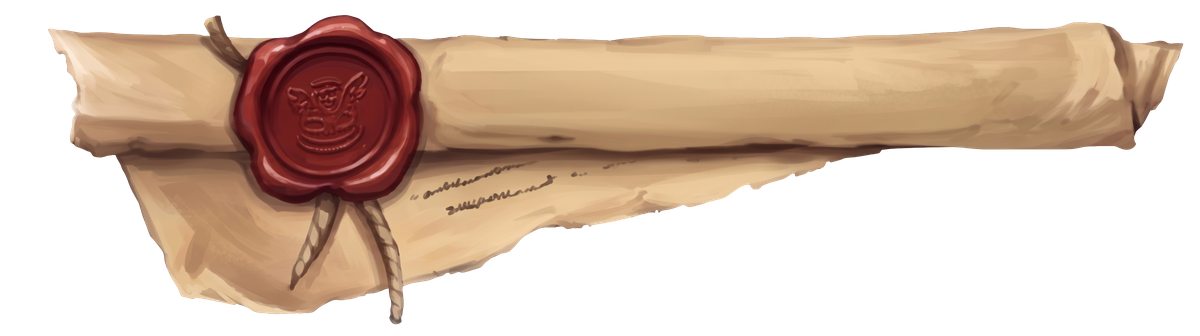
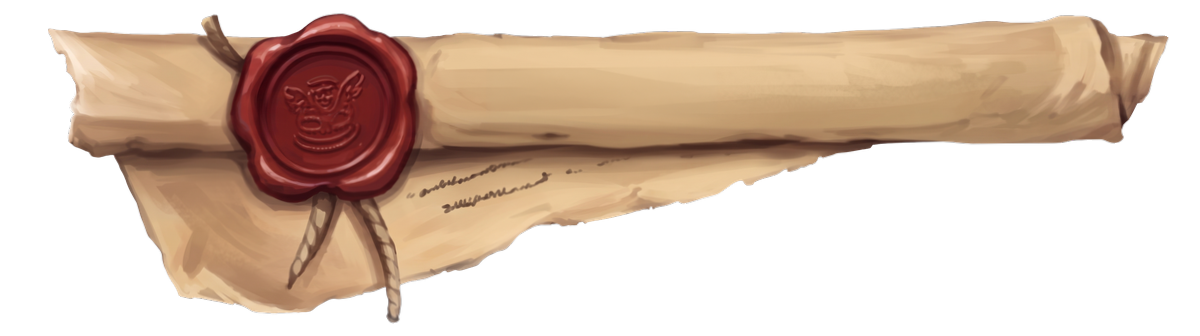
feat: implement exclusive shop opening behavior, removing layout restrictions and enhancing user experience

diff --git a/Proto4Html/e2e/08-corrections.spec.ts b/Proto4Html/e2e/08-corrections.spec.ts
@@ -39,17 +39,15 @@ test.describe('08 · Corrections post-test', () => {
       // 08/C1
       await page.setViewportSize({ width, height })
       await start(page, { seed: RACE_SEED })
-      const state = (id: string) => page.getByTestId(id).getAttribute('data-state')
       await expectHudClear(page, width) // paris ouverts
       await page.getByTestId('tab-shop').click()
       await expect(page.getByTestId('drawer-shop')).toHaveAttribute('data-state', 'open')
-      await expectHudClear(page, width) // boutique ouverte (et paris avec, si la fenêtre le permet : les deux ouverts)
-      if ((await state('drawer-bets')) === 'closed') {
-        await page.getByTestId('tab-bets').click() // en fenêtre basse, replie la boutique : paris seuls
-        await expectHudClear(page, width)
-      }
-      if ((await state('drawer-shop')) === 'open') await shopPanel(page).getByRole('button', { name: 'Fermer' }).click()
-      if ((await state('drawer-bets')) === 'open') await betsPanel(page).getByRole('button', { name: 'Fermer' }).click()
+      await expectHudClear(page, width) // boutique seule à l'écran
+      // La boutique masque le reste : on en sort par sa croix, qui ramène aux paris.
+      await shopPanel(page).getByRole('button', { name: 'Fermer' }).click()
+      await expect(page.getByTestId('drawer-bets')).toHaveAttribute('data-state', 'open')
+      await expectHudClear(page, width) // paris seuls
+      await betsPanel(page).getByRole('button', { name: 'Fermer' }).click()
       await expect(page.getByTestId('drawer-bets')).toHaveAttribute('data-state', 'closed')
       await expect(page.getByTestId('drawer-shop')).toHaveAttribute('data-state', 'closed')
       await expectHudClear(page, width) // aucun
@@ -81,35 +79,36 @@ test.describe('08 · Corrections post-test', () => {
     await expect(heads.last()).toBeVisible()
   })
 
-  test('C2 · au cercle 1, boutique et paris ouverts ensemble laissent le plateau en bandeau entre les deux', async ({ page }) => {
-    // 08/C2
+  test('C2 · la boutique s’ouvre seule : ni piste ni paris derrière, et les boutons croisés font l’aller-retour', async ({ page }) => {
+    // 08/C2 — révisé : la cohabitation des deux panneaux a été remplacée par l'ouverture
+    // exclusive, pour que l'achat soit un moment à part et non une troisième chose à lire.
     await start(page, { seed: SHOP_SEED })
     await placeBet(page, { souls: [0], stake: 5 })
+    const track = await boxOf(board(page))
+    expect(track.height).toBeGreaterThan(150)
     await page.getByTestId('tab-shop').click()
     await expect(page.getByTestId('drawer-shop')).toHaveAttribute('data-state', 'open')
-    await expect(page.getByTestId('drawer-bets')).toHaveAttribute('data-state', 'open')
-    const shop = await boxOf(shopPanel(page))
-    const track = await boxOf(board(page))
-    const bets = await boxOf(betsPanel(page))
-    expect(shop.y + shop.height).toBeLessThanOrEqual(track.y + 1)
-    expect(track.y + track.height).toBeLessThanOrEqual(bets.y + 1)
-    expect(track.height).toBeGreaterThan(150)
-    // Les boutons croisés basculent en un clic.
+    await expect(board(page)).toHaveCount(0)
+    await expect(page.getByTestId('drawer-bets')).toHaveCount(0)
+    // Les boutons croisés basculent en un clic, dans les deux sens.
     await shopPanel(page).getByRole('button', { name: 'Retour aux paris' }).click()
     await expect(page.getByTestId('drawer-shop')).toHaveAttribute('data-state', 'closed')
+    await expect(board(page)).toHaveCount(1)
     await betsPanel(page).getByRole('button', { name: 'Boutique' }).click()
     await expect(page.getByTestId('drawer-shop')).toHaveAttribute('data-state', 'open')
+    await expect(board(page)).toHaveCount(0)
   })
 
-  test('C2 · au cercle 6 (4 couloirs), ouvrir le second panneau replie le premier', async ({ page }) => {
-    // 08/C2 — course d'index 15 = cercle 6, course 1.
+  test('C2 · au cercle 6 (4 couloirs), la boutique masque aussi tout le reste', async ({ page }) => {
+    // 08/C2 — course d'index 15 = cercle 6, course 1. La règle ne dépend plus du nombre de
+    // couloirs ni de la hauteur de fenêtre : l'ouverture est exclusive partout.
     await start(page, { seed: RACE_SEED, race: 15 })
     await expect(board(page).locator('.legend li')).toHaveCount(8)
     await expect(page.getByTestId('drawer-bets')).toHaveAttribute('data-state', 'open')
     await page.getByTestId('tab-shop').click()
     await expect(page.getByTestId('drawer-shop')).toHaveAttribute('data-state', 'open')
-    await expect(page.getByTestId('drawer-bets')).toHaveAttribute('data-state', 'closed')
-    await page.getByTestId('tab-bets').click()
+    await expect(page.getByTestId('drawer-bets')).toHaveCount(0)
+    await shopPanel(page).getByRole('button', { name: 'Fermer' }).click()
     await expect(page.getByTestId('drawer-bets')).toHaveAttribute('data-state', 'open')
     await expect(page.getByTestId('drawer-shop')).toHaveAttribute('data-state', 'closed')
   })

diff --git a/Proto4Html/src/presentation/GameScreen.tsx b/Proto4Html/src/presentation/GameScreen.tsx
@@ -81,18 +81,19 @@ export function GameScreen({ carry, speed, onFinished, onMenu }: Props) {
   const shopShown = prep && shopOpen
   const betsShown = !finished && betsOpen
 
-  // Les deux panneaux peuvent rester ouverts ensemble tant que le plateau garde sa hauteur lisible (spec 08/C2) ;
-  // sinon ouvrir l'un replie l'autre.
-  const bothAllowed = (): boolean => ui.race.track.lanes <= config.layout.bothPanelsMaxLanes && (typeof window === 'undefined' || window.innerHeight >= config.layout.bothPanelsMinHeight)
+  // Ouverture exclusive : la boutique prend l'écran seule, piste et paris masqués, pour que
+  // l'achat soit un moment à part. Elle remplace la cohabitation des deux panneaux que
+  // prévoyait 08/C2 — le plateau en bandeau entre les deux donnait trois choses à lire.
+  // On sort de la boutique par ses propres boutons (Fermer, Aller aux paris).
   const openBets = (): void => {
     setBetsOpen(true)
-    if (!bothAllowed()) setShopOpen(false)
+    setShopOpen(false)
   }
   const openShop = (): void => {
     if (!prep) return
     actions.openShop() // tire la vitrine si la boutique est débloquée ; sinon l'état vide s'affiche
     setShopOpen(true)
-    if (!bothAllowed()) setBetsOpen(false)
+    setBetsOpen(false)
   }
 
   // La boutique disparaît dès que la course est lancée ; le panneau de paris se replie quand on ne peut plus parier.
@@ -223,6 +224,9 @@ export function GameScreen({ carry, speed, onFinished, onMenu }: Props) {
           )}
           {shopShown && (
             <div className="panel panel-shop">
+              {/* Les trois sorties ramènent aux paris. Depuis que la boutique masque le reste,
+                  la croix ne peut plus se contenter de la refermer : elle laisserait l'écran
+                  sans aucun panneau. */}
               <ShopPanel
                 vitrine={ui.vitrine ?? []}
                 unlocked={shopUnlocked}
@@ -235,15 +239,9 @@ export function GameScreen({ carry, speed, onFinished, onMenu }: Props) {
                 onBuy={(id, target) => actions.buy(id, target ?? null)}
                 onCancel={actions.cancelPurchase}
                 onReroll={actions.rerollVitrine}
-                onLeave={() => {
-                  setShopOpen(false)
-                  openBets()
-                }}
-                onGoToBets={() => {
-                  setShopOpen(false)
-                  openBets()
-                }}
-                onClose={() => setShopOpen(false)}
+                onLeave={openBets}
+                onGoToBets={openBets}
+                onClose={openBets}
               />
               {shopUnlocked && <Inventory inventory={ui.inventory} lateBetCharges={ui.lateBetCharges} compact />}
             </div>
@@ -251,6 +249,9 @@ export function GameScreen({ carry, speed, onFinished, onMenu }: Props) {
           {!prep && <OpponentSlot ui={ui} />}
         </div>
 
+        {/* Boutique ouverte : ni piste ni paris. Démontés plutôt que masqués en CSS — un
+            `display: none` laisse les boutons dans l'ordre de tabulation. */}
+        {!shopShown && (
         <div className="board-wrap">
           <Board race={ui.race} lastResult={ui.lastResult} activeSoul={activeSoul} highlightSoul={hoverSoul} onHoverSoul={setHoverSoul} preview={preview} selection={selection} bettedSouls={bettedSouls} tieColumns={tieColumns} />
           <p className="last-event" aria-live="polite">
@@ -262,7 +263,9 @@ export function GameScreen({ carry, speed, onFinished, onMenu }: Props) {
             )}
           </p>
         </div>
+        )}
 
+        {!shopShown && (
         <div className={'zone zone-bottom' + (betsShown ? ' zone-open' : '')} data-testid="drawer-bets" data-state={betsShown ? 'open' : 'closed'}>
           <PhaseStrip phase={ui.phase} />
           {!finished && !betsShown && (
@@ -320,6 +323,7 @@ export function GameScreen({ carry, speed, onFinished, onMenu }: Props) {
             />
           )}
         </div>
+        )}
       </main>
 
       {/* Fin de course : classement et bilan des paris en modale, poignée « Gains » pour la rouvrir */}

diff --git a/Proto4Html/e2e/02-navigation.spec.ts b/Proto4Html/e2e/02-navigation.spec.ts
@@ -23,8 +23,12 @@ test.describe('02 · Navigation Pari ↔ Boutique', () => {
     await expect(shop.getByText(EMPTY_STATE)).toBeVisible()
     await expect(shop.getByRole('button', { name: 'Aller aux paris' })).toBeVisible()
     await expect(shop.getByRole('article')).toHaveCount(0)
-    // Le tiroir boutique recouvre le bord du plateau en écran large : on désigne l'âme par sa chip.
+    // La boutique occupe l'écran seule : pour parier il faut en sortir, c'est ce que propose
+    // son propre bouton. Le pari posé, la vitrine est là au retour.
+    await shop.getByRole('button', { name: 'Aller aux paris' }).click()
+    await expect(page.getByTestId('drawer-bets')).toHaveAttribute('data-state', 'open')
     await placeBet(page, { souls: [4], stake: 5, chips: true })
+    await betsPanel(page).getByRole('button', { name: 'Boutique' }).click()
     await expect(shop.getByRole('article')).toHaveCount(4)
     await expect(shop.getByText(EMPTY_STATE)).toHaveCount(0)
   })
@@ -42,8 +46,10 @@ test.describe('02 · Navigation Pari ↔ Boutique', () => {
 
     await page.getByTestId('tab-shop').click()
     await expect(shopPanel(page)).toBeVisible()
+    // La boutique masque les paris : sa croix doit les rouvrir, sinon l'écran resterait vide.
     await shopPanel(page).getByRole('button', { name: 'Fermer' }).click()
     await expect(page.getByTestId('drawer-shop')).toHaveAttribute('data-state', 'closed')
+    await expect(page.getByTestId('drawer-bets')).toHaveAttribute('data-state', 'open')
 
     await expect(panel.getByRole('button', { name: /^Duel/ })).toHaveAttribute('aria-pressed', 'true')
     await expect(slot(page, 'devant')).toContainText('Homère')
@@ -67,14 +73,16 @@ test.describe('02 · Navigation Pari ↔ Boutique', () => {
     await expect(page.getByTestId('tab-bets')).toHaveCount(0)
   })
 
-  test('E2E-02-E : en écran étroit, un panneau replie l’autre et le plateau reste dans la fenêtre', async ({ page }) => {
+  test('E2E-02-E : la boutique ouverte masque piste et paris ; au retour le plateau est dans la fenêtre', async ({ page }) => {
     // 02/AC5
     await page.setViewportSize({ width: 1024, height: 768 })
     await start(page, { seed: RACE_SEED })
     await expect(page.getByTestId('drawer-bets')).toHaveAttribute('data-state', 'open')
     await page.getByTestId('tab-shop').click()
     await expect(page.getByTestId('drawer-shop')).toHaveAttribute('data-state', 'open')
-    await expect(page.getByTestId('drawer-bets')).toHaveAttribute('data-state', 'closed')
+    // Ouverture exclusive : la boutique est seule à l'écran, plateau et paris sont démontés.
+    await expect(page.getByTestId('drawer-bets')).toHaveCount(0)
+    await expect(board(page)).toHaveCount(0)
     await shopPanel(page).getByRole('button', { name: 'Aller aux paris' }).click()
     await expect(page.getByTestId('drawer-bets')).toHaveAttribute('data-state', 'open')
     await expect(page.getByTestId('drawer-shop')).toHaveAttribute('data-state', 'closed')

diff --git a/Proto4Html/src/presentation/BetPanel.tsx b/Proto4Html/src/presentation/BetPanel.tsx
@@ -304,6 +304,14 @@ export function BetPanel({ race, money, price, bets, open, phase, level, speed, 
               )
             })}
           </div>
+          {/* Le gain potentiel se range sous la liste des âmes : la colonne a la place libre,
+              alors que sous la mise il allongeait le panneau dès que le pari devenait complet. */}
+          {ready && (
+            <div className="bp-ticket" aria-live="polite">
+              <span className="bp-ticket-gain good">{fill(BETS.gain, { net, mult: fmtMultiplier(mult).slice(1) })}</span>
+              <span className="bp-ticket-after muted">{fill(BETS.after, { n: money - stake })}</span>
+            </div>
+          )}
         </div>
 
         <div className="bp-col">
@@ -350,12 +358,6 @@ export function BetPanel({ race, money, price, bets, open, phase, level, speed, 
               })}
             </div>
           </div>
-          {ready && (
-            <div className="bp-ticket" aria-live="polite">
-              <span className="bp-ticket-gain good">{fill(BETS.gain, { net, mult: fmtMultiplier(mult).slice(1) })}</span>
-              <span className="bp-ticket-after muted">{fill(BETS.after, { n: money - stake })}</span>
-            </div>
-          )}
         </div>
       </div>
 

diff --git a/Proto4Html/src/core/config/load.ts b/Proto4Html/src/core/config/load.ts
@@ -157,10 +157,6 @@ export function loadConfig(raw: unknown): RaceConfig {
   const gaugeMs = int(animation.gaugeMs, 'animation.gaugeMs', 0)
   const betConfirmMs = int(animation.betConfirmMs, 'animation.betConfirmMs', 0)
 
-  const layout = obj(root.layout, 'layout')
-  const bothPanelsMaxLanes = int(layout.bothPanelsMaxLanes, 'layout.bothPanelsMaxLanes', 1)
-  const bothPanelsMinHeight = int(layout.bothPanelsMinHeight, 'layout.bothPanelsMinHeight', 0)
-
   return {
     souls: { count, names },
     track: { columns, cellsAfterFinish, betThresholdRatio },
@@ -170,6 +166,5 @@ export function loadConfig(raw: unknown): RaceConfig {
     run: { racesPerCircle, circles },
     artefacts: { lateBet: { chargesPerCircle }, sablier: { betThresholdRatio: sablierRatio } },
     animation: { stepMs, diceMs, pauseMs, betRevealMs, idlePulseMs, gaugeMs, betConfirmMs },
-    layout: { bothPanelsMaxLanes, bothPanelsMinHeight },
   }
 }

diff --git a/Proto4Html/src/core/config/schema.ts b/Proto4Html/src/core/config/schema.ts
@@ -74,10 +74,4 @@ export interface RaceConfig {
     /** Durée de la confirmation « Pari posé : … » dans le pied du panneau de paris. */
     betConfirmMs: number
   }
-  layout: {
-    /** Au-delà de ce nombre de couloirs, les panneaux paris et boutique ne s'ouvrent plus ensemble. */
-    bothPanelsMaxLanes: number
-    /** Sous cette hauteur de fenêtre (px), idem. */
-    bothPanelsMinHeight: number
-  }
 }

diff --git a/docs/proto4/specs/08-corrections-post-test.md b/docs/proto4/specs/08-corrections-post-test.md
@@ -28,7 +28,7 @@ Règle de lecture commune : ces tickets **précisent** les specs 01–06, ils ne
 
 - *Paris en bas* : le panneau occupe l'emplacement du `PlayerSlot` (dés/file), qui est vide en préparation — les deux se partagent naturellement le même espace dans le temps (préparation = ticket, course = dés). En pleine largeur, les sections du ticket (type / âme / mise / paris posés) se posent **en colonnes côte à côte** au lieu de la pile verticale actuelle, ce qui remonte « Paris posés » au-dessus de la ligne de flottaison et résout une partie de C4. En course, le panneau remonte sur la zone des dés, jamais sur le plateau.
 - *Boutique en haut* : elle descend sur la zone adverse et le haut de table, en préparation uniquement (aucune course à surveiller à ce moment). Vitrine en une rangée, réserve en pied.
-- *Bénéfice structurel* : les deux panneaux ouverts ensemble redeviennent possibles sans tuer le plateau — il garde toute sa largeur et reste visible en bandeau central (au cercle 1 : 1 couloir, ~150 px suffisent). Aux cercles à 4+ couloirs, si la hauteur restante passe sous le minimum lisible (~45 px par couloir), l'ouverture devient exclusive.
+- ~~*Bénéfice structurel* : les deux panneaux ouverts ensemble redeviennent possibles sans tuer le plateau — il garde toute sa largeur et reste visible en bandeau central (au cercle 1 : 1 couloir, ~150 px suffisent). Aux cercles à 4+ couloirs, si la hauteur restante passe sous le minimum lisible (~45 px par couloir), l'ouverture devient exclusive.~~ **Annulé.** La cohabitation a été essayée puis abandonnée : le joueur avait trois zones à lire en même temps et se perdait. L'ouverture est désormais **exclusive partout** — la boutique ouverte démonte piste et paris. Voir 02/C3 pour la règle en vigueur.
 - Les poignées suivent : « Paris (2) · 30 ¤ misés » en bas, « Boutique · 3 objets » en haut (les résumés de 02/C1 inchangés).
 
 **Coût assumé** : re-layout CSS des deux panneaux (interne : vertical → colonnes) et des poignées ; aucune logique de jeu touchée. Si ce coût est jugé trop élevé pour l'itération, le repli minimal est : le conteneur de table se **rétrécit** quand un drawer latéral s'ouvre (le plateau se redessine sur la largeur restante, il ne passe jamais dessous) et deux drawers ouverts deviennent exclusifs dès 1440 px. Mais la cible haut/bas est la bonne réponse au problème, pas le repli.

diff --git a/docs/proto4/specs/02-navigation-pari-boutique.md b/docs/proto4/specs/02-navigation-pari-boutique.md
@@ -28,7 +28,7 @@ Mêmes mécanismes, plus lisibles :
 
 - **C1 (P2)** — Poignées résumées. Onglet paris : `Paris (2) · 30 ¤ misés` (somme des mises `open`) ; en course, s'il ne reste qu'à regarder : `Paris (2)`. Onglet boutique : `Boutique · {n} objets` (`ui.vitrine.length`). Libellés dans `texts.ts`.
 - **C2 (P1)** — État vide de la boutique. Supprimer `disabled` sur `tab-left` : l'onglet ouvre toujours le drawer. Si `!shopUnlocked`, `ShopPanel` affiche à la place de la vitrine un état vide : « Pose d'abord un pari, le stagiaire n'ouvre pas la caisse aux indécis. » + bouton « Aller aux paris » (ouvre le drawer paris). Dès le premier pari posé, la vitrine apparaît sans re-clic si le panneau est ouvert.
-- **C3 (P2)** — Bascule exclusive quand la hauteur manque (révisé par 08/C2, panneaux haut/bas) : au-delà de `layout.bothPanelsMaxLanes` couloirs ou sous `layout.bothPanelsMinHeight` px de hauteur de fenêtre (`config/race.json`), ouvrir un panneau replie l'autre. Sinon les deux peuvent rester ouverts, le plateau visible en bandeau entre les deux.
+- **C3 (P2)** — Ouverture exclusive, sans condition (révisé une première fois par 08/C2 « panneaux haut/bas », puis à nouveau — voir ci-dessous). **La boutique ouverte occupe l'écran seule : piste et panneau de paris sont démontés, pas seulement repliés.** Ouvrir l'un ferme l'autre, quel que soit le nombre de couloirs ou la taille de la fenêtre ; les clés `layout.bothPanelsMaxLanes` et `layout.bothPanelsMinHeight` de `config/race.json` n'ont plus d'objet et ont été retirées. *Raison* : acheter est un moment à part ; avec le plateau et le ticket derrière, la boutique était une troisième chose à lire au lieu de la seule. *Conséquence* : la poignée « Paris » disparaît tant que la boutique est là, donc **les trois sorties de la boutique (croix, « Retour aux paris », « Aller aux paris ») rouvrent toutes le panneau de paris** — sinon on se retrouve devant un écran sans panneau.
 - **C4 (P3)** — Raccourcis clavier : `P` bascule le drawer paris, `B` la boutique (seulement en phase `prep` pour `B`), ignorés quand un champ a le focus. Documentés dans le `title` des onglets.
 
 ## Critères d'acceptation

diff --git a/docs/proto4/specs/03-ecran-paris.md b/docs/proto4/specs/03-ecran-paris.md
@@ -21,7 +21,7 @@ Déjà conforme à la cible (à conserver tel quel) :
 
 ## Changements
 
-- **C1 (P1)** — Bloc « ticket » dans le pied : quand le pari est prêt (`missing === 0 && !refusal`), la ligne d'état affiche sur deux lignes : `Gain potentiel : +{net} ¤ (×{mult})` (accent visuel, classe `good`) et `Solde après mise : {money - stake} ¤` (texte secondaire). Quand il n'est pas prêt, comportement actuel conservé.
+- **C1 (P1)** — Bloc « ticket » : quand le pari est prêt (`missing === 0 && !refusal`), deux lignes s'affichent : `Gain potentiel : +{net} ¤ (×{mult})` (accent visuel, classe `good`) et `Solde après mise : {money - stake} ¤` (texte secondaire). Quand il n'est pas prêt, comportement actuel conservé. **Emplacement révisé** : le bloc est passé du pied à la colonne II « Âme », sous la liste des chips — la colonne a la place libre, alors que sous la mise (colonne III) il rallongeait le panneau à chaque fois que le pari devenait complet.
 - **C2 (P1)** — Sélection d'âmes sur le plateau. Quand le panneau de paris est ouvert et qu'il manque des âmes au ticket (`missing > 0`, phase où `open` est vrai) :
   - les jetons du plateau (`Board`, `.token`) et les entrées de légende deviennent cliquables : clic = `toggleSoul(id)` (mêmes règles que les chips : max `slots`, refus au-delà du seuil) ;
   - les jetons sélectionnés portent un anneau de la couleur du pari ; les jetons hors zone de pari sont marqués non sélectionnables (opacité + `title` « A dépassé le seuil de pari ») ;
